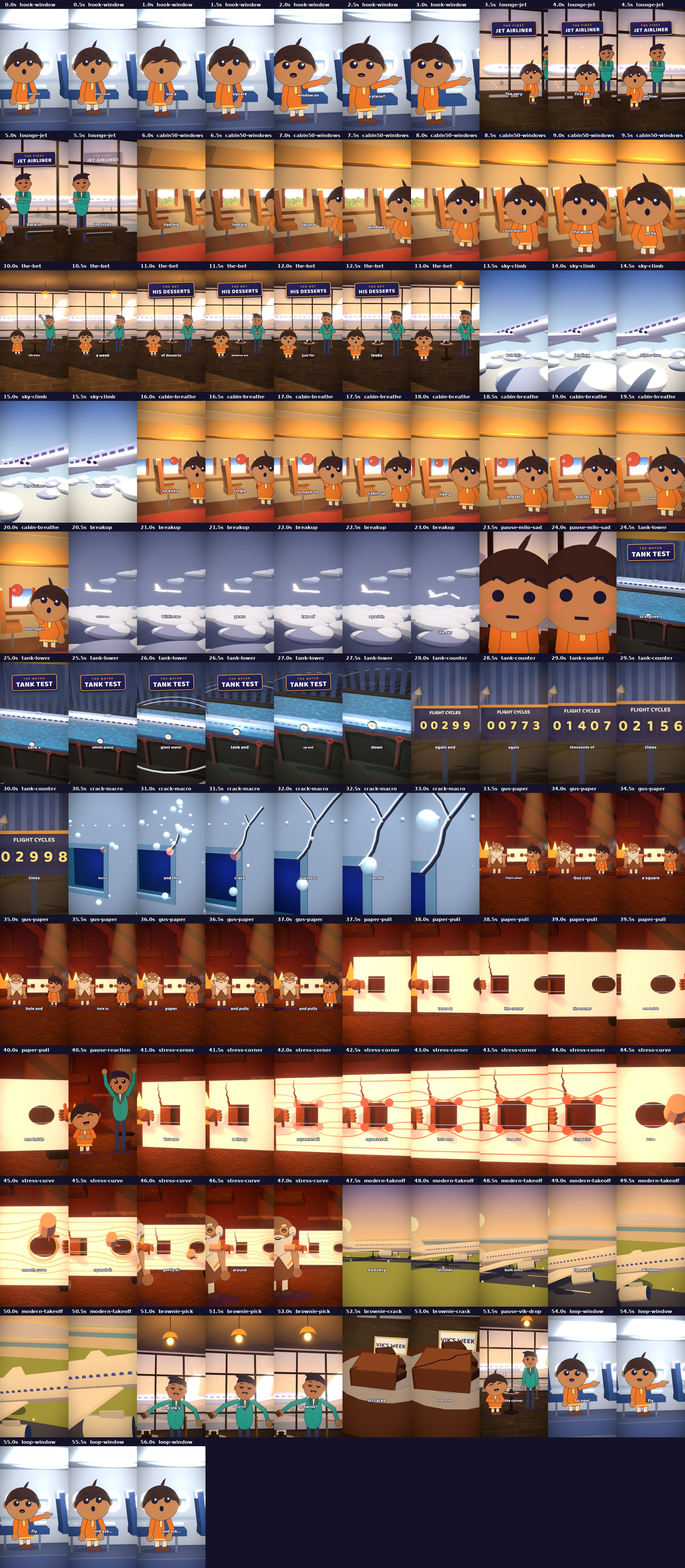
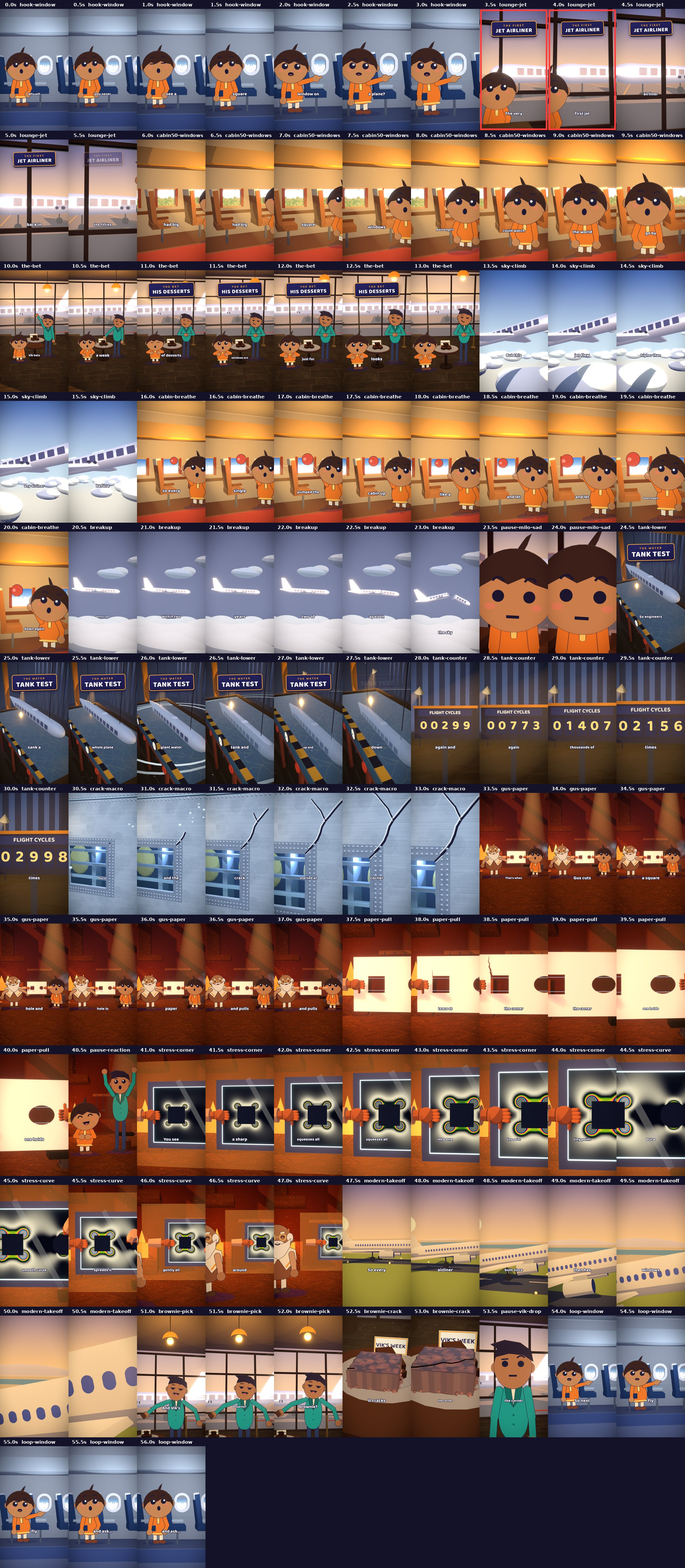
Short #3: Milo further back in the lounge shot (caption was over his face); faces check clean
Claude-Session: https://claude.ai/code/session_01ScZZ5kgppFm3tiDYnvyiPP

diff --git a/scripts/shots_03_plane_windows.py b/scripts/shots_03_plane_windows.py
@@ -127,7 +127,7 @@ HOOK = frame([[0.35, WIN_Y + 0.32, WALL_Z], [0.35, WIN_Y - 0.32, WALL_Z]] + body
 # lounge cast
 BET_VIK = c(VIK, pose="slam", pos=[1.65, 0.45], facing=-1, poses=[{"at": 0.9, "pose": "proud"}])
 BET_MILO = c(MILO, pose="idle", pos=[0.1, 0.95], facing=1, poses=[{"at": 0.45, "pose": "gasp"}])
-GLASS_MILO = c(MILO, pos=[-3.3, -3.3], facing=1, pose="look-up")
+GLASS_MILO = c(MILO, pos=[-2.9, -3.75], facing=1, pose="look-up")
 GLASS_VIK = c(VIK, pos=[-0.35, -3.4], facing=-1, pose="cross-arms")
 # 50s cabin cast
 C50_MILO = c(MILO, pos=[-0.15, 0.1], facing=-1, pose="look-up")
